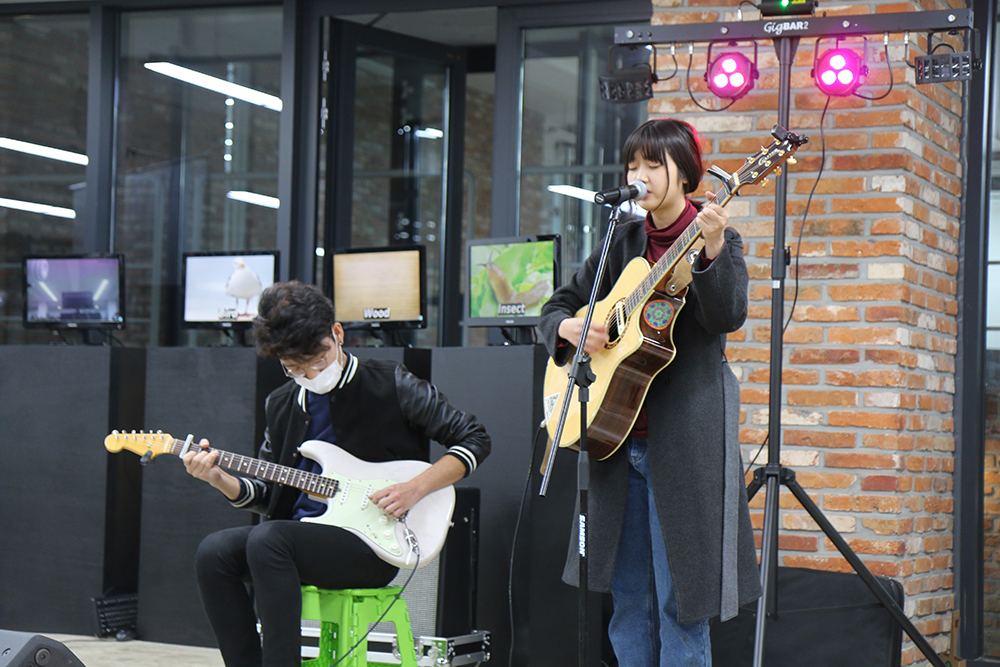
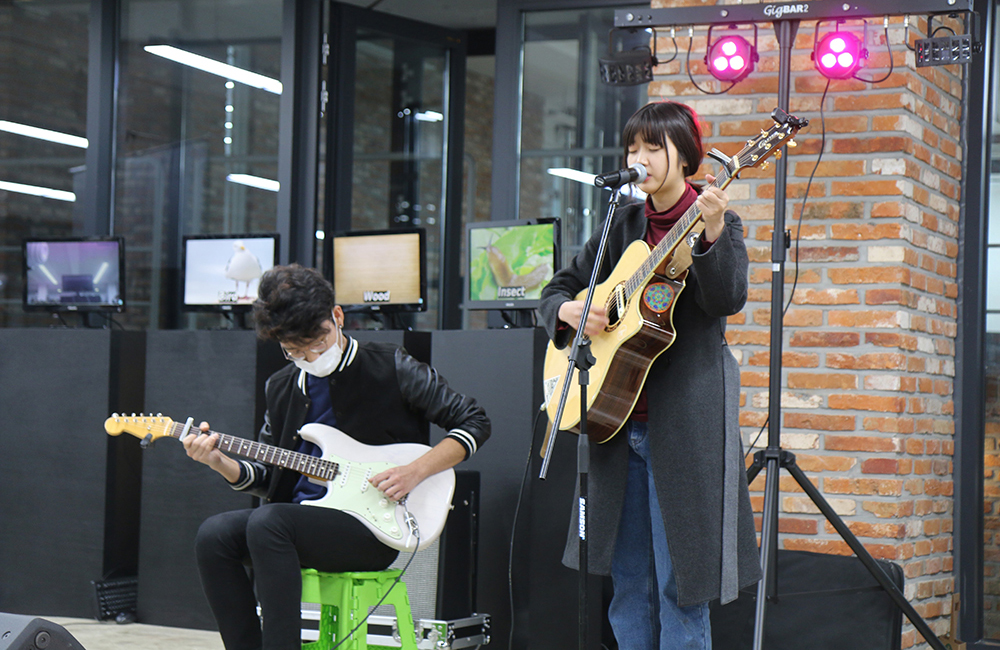
데놀이 걸어온길 사진교체

diff --git a/index.html b/index.html
@@ -94,14 +94,14 @@
 						<p><b>since 2016</b></p>
 					</header>
 					<div class="image-grid">
+						<a href="#" class="image"><img src="images/index_pic1.jpg" alt="" /></a>
+						<a href="#" class="image"><img src="images/index_pic2.jpg" alt="" /></a>
+						<a href="#" class="image"><img src="images/index_pic3.jpg" alt="" /></a>
 						<a href="#" class="image"><img src="images/index_pic4.jpg" alt="" /></a>
 						<a href="#" class="image"><img src="images/index_pic5.jpg" alt="" /></a>
 						<a href="#" class="image"><img src="images/index_pic6.jpg" alt="" /></a>
+						<a href="#" class="image"><img src="images/index_pic7.jpg" alt="" /></a>
 						<a href="#" class="image"><img src="images/index_pic8.jpg" alt="" /></a>
-						<a href="#" class="image"><img src="images/index_pic5.jpg" alt="" /></a>
-						<a href="#" class="image"><img src="images/index_pic4.jpg" alt="" /></a>
-						<a href="#" class="image"><img src="images/index_pic8.jpg" alt="" /></a>
-						<a href="#" class="image"><img src="images/index_pic6.jpg" alt="" /></a>
 					</div>
 					<ul class="actions">
 						<li><a href="#" class="button big alt">Tempus Aliquam</a></li>
